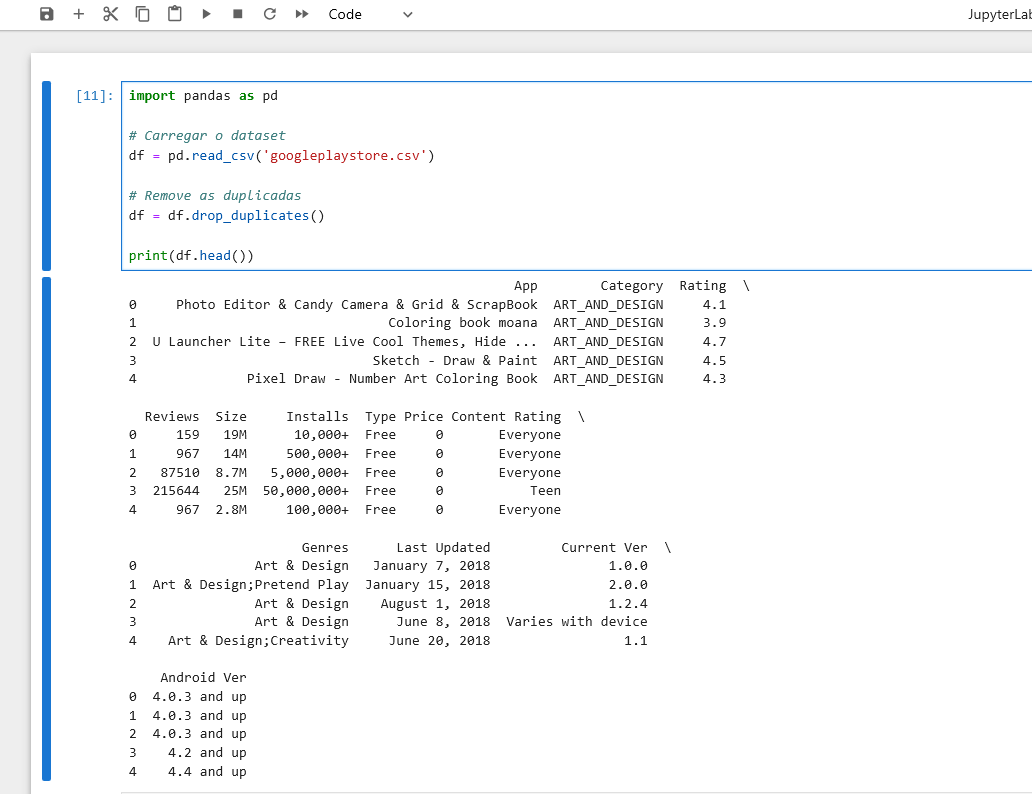
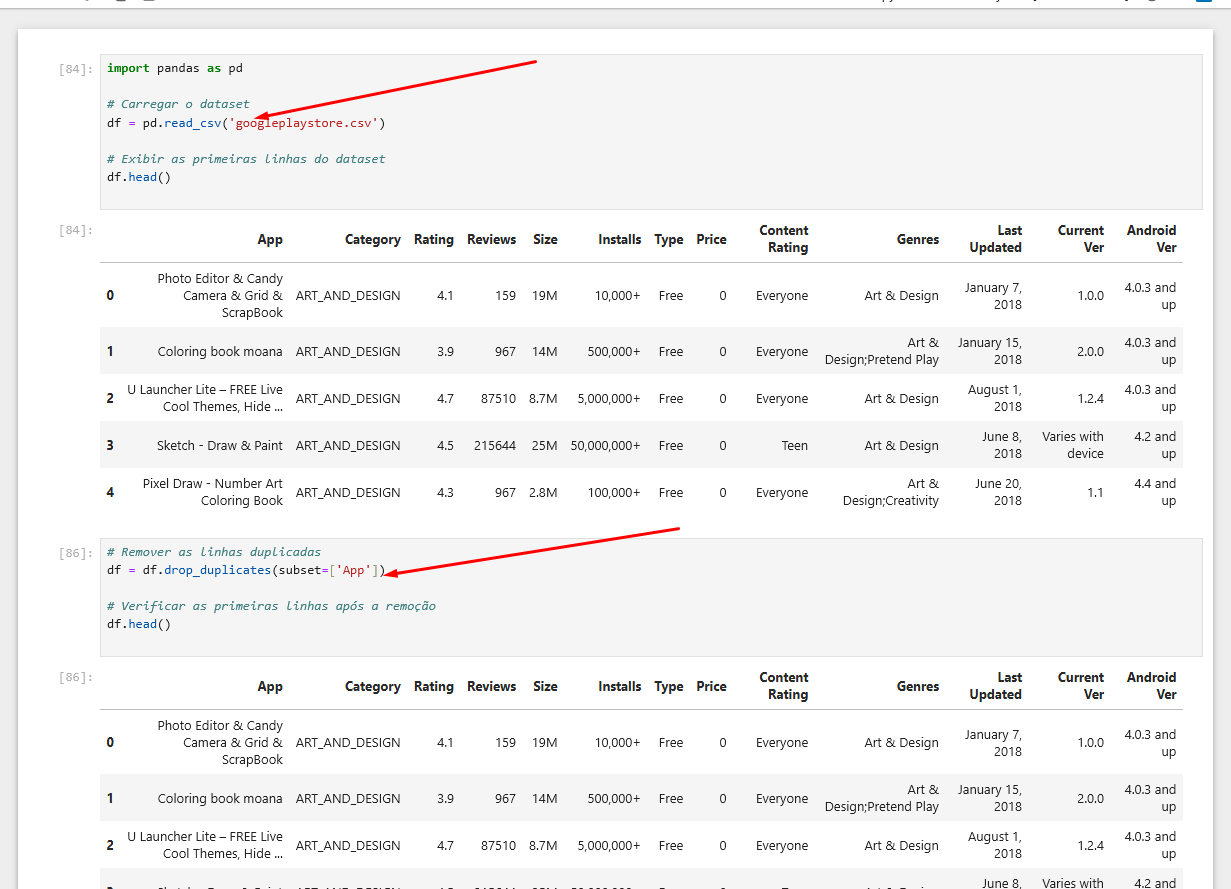
fix readme desafio 2.1

diff --git a/Sprint 2/Desafio/README.md b/Sprint 2/Desafio/README.md
@@ -3,15 +3,9 @@
 ### Etapa 1. **Carregar o dataset e remoção das linhas duplicadas**
 
 A primeira etapa do projeto é carregar o dataset. O arquivo `.csv` e visualizar as primeiras linhas para verificar os dados disponíveis.
-Abaixo, como importei e removi as linhas duplicadas.
+Abaixo, como importei e removi as linhas duplicadas com base na coluna `'App'`.
 
 ![amostra](../Evidencias/carregar_dataset.png)
-
-Nessa parte fiz alguns testes como visualizar as duplicadas e visualizar sua remoção, como é possível verificar abaixo:
-
-![amostra](../Evidencias/visualizar_duplicadas.png)
-![amostra](../Evidencias/visualizando_remocao.png)
-![amostra](../Evidencias/verificando_removidas.png)
 
 ### 2. **Limpeza de Dados - Installs**
 
@@ -47,29 +41,41 @@ Após os ajustes para melhorar a visualização trazendo somente as 20 categoria
 
 ### 6. **Encontre o App Mais Caro**
 
-Aqui, determinei o aplicativo mais caro do dataset, com nome e preço.
+Aqui para determinar o app mais caro converti a coluna 'Price' para valores numéricos, removi o símbolo de moeda e tratei os respectivos erros. Em seguida, ele removi linhas com preços ausentes e printei o nome e o preço do aplicativo mais caro.
 
 ![amostra](../Evidencias/app_caro.png)
 
 ### 7. **Contagem de Apps com a Classificação 'Mature 17+'**
 
-Aqui contei quantos aplicativos possuem a classificação **'Mature 17+'**.
+Com este código, eu filtrei meu df para incluir apenas os apps com classificação Mature 17+ e, em seguida, printei o total desses apps.
 
-![amostra](../Evidencias/app_mature.png)
+![amostra](../Evidencias/mature17.png)
 
 ### 8. **Top 10 Apps por Número de Reviews**
 
-Selecionei os 10 aplicativos com mais reviews e gerei um gráfico para visualização seguindo a lógica do gráfico de barras já feito anteriormente.
+Gerei uma lista ordenada de forma decrescente pelo número de reviews. Convertendo a coluna Reviews para valores numéricos, tratando valores ausentes e ordena os aplicativos por número de reviews de forma decrescente. Em seguida, exibindo os 10 aplicativos com mais reviews, mostrando seu nome e o número de reviews.
 
-![amostra](../Evidencias/apps_review.png)
+![amostra](../Evidencias/top10reviews.png)
 
 ### 9. **Cálculos sobre o Dataset**
 
-Realizei alguns cálculos sobre o dataset, como a média de reviews, cálculo em valor e o cálculo em formato de lista, top 5 apps com mais reviews
+Copiei o df, tratei e converti a coluna 'Reviews' para números inteiros, e então ordenei para encontrar e exibir os top 10 aplicativos com mais reviews
+
+![amostra](../Evidencias/calculos.png)
+
 
 ### 10. **Gráficos de Análise Adicional**
 
-Gerei gráficos adicionais para os indicadores da etapa anterior, um gráfico de linhas e outro de ponto.
+Gerei gráficos adicionais para os indicadores da etapa anterior, um gráfico de linha e outro de ponto.
+
+No de linha, converto a coluna 'Reviews' para numérica e, em seguida, ploto os top 5 aplicativos por reviews, formatando o eixo Y para exibir os números de reviews de forma legível e sem notação científica.
+
+![amostra](../Evidencias/linhas_grafico.png)
+
+
+O de ponto, criei um gráfico para exibir o preço médio dos apps como um ponto centralizado, com uma linha horizontal e um rótulo de texto destacado para indicar seu valor. 
+
+![amostra](../Evidencias/ponto.png)
 
 ## Conclusão
 
